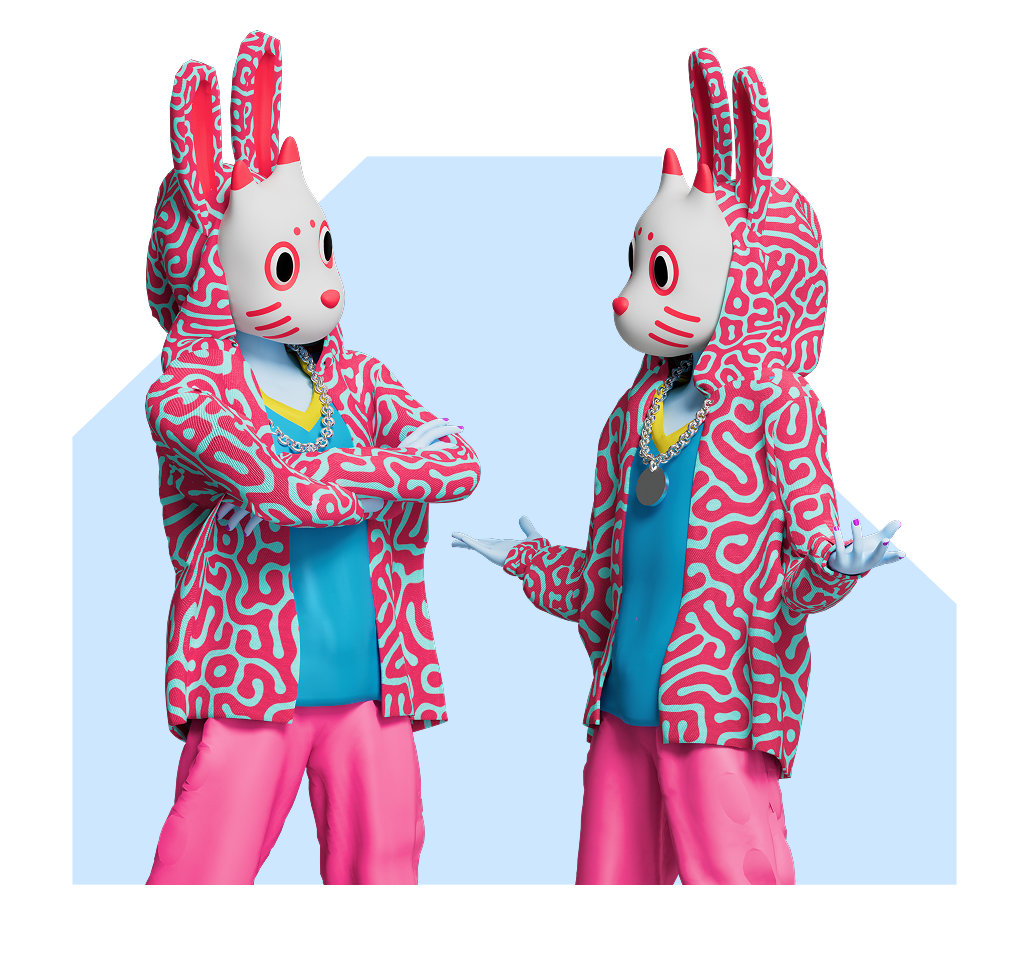
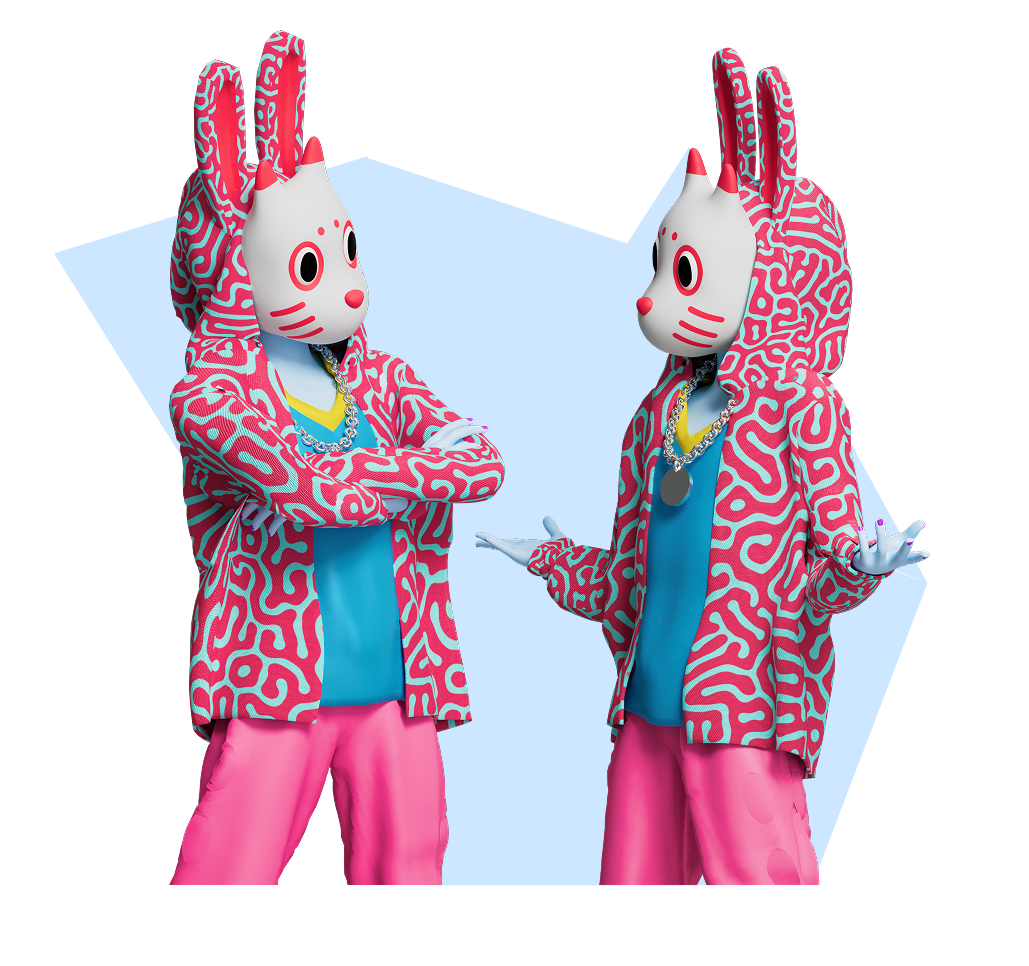
chore: update deeplink modal text copies (#16476)
<!--
Please submit this PR as a draft initially.
Do not mark it as "Ready for review" until the template has been
completely filled out, and PR status checks have passed at least once.
-->

## **Description**
Update the text copies for the public, private, and invalid deeplink
modal.

## **Related issues**

Fixes: to update text copies on deeplinking modal ([Slack
thread](https://consensys.slack.com/archives/C084W4VFHCK/p1750251190312749)).

## **Manual testing steps**
Since this UI is not yet hooked up with deeplinks. We need to test
locally
1. In the file app/components/Nav/Main/Index.js. Import `import
handleDeepLinkModalDisplay from
'../../../core/DeeplinkManager/Handlers/handleDeepLinkModalDisplay';`
and add this line inside the useEffect in line 130
```
   handleDeepLinkModalDisplay({
    linkType: 'private',
    pageTitle: 'MetaMask',
    onContinueCallBack: () => alert('continue'),
  });
```
3. Private deep link modal should pop up when you start the app
6. Repeat step 1 and change linkType to 'public' and 'invalid'

## **Screenshots/Recordings**

<!-- If applicable, add screenshots and/or recordings to visualize the
before and after of your change. -->

### **Before**
![Screenshot 2025-06-18 at 12 22
01 PM](https://github.com/user-attachments/assets/87105c3f-e3c6-464e-af2a-719c10757726)

### **After**
![Screenshot 2025-06-18 at 2 37
50 PM](https://github.com/user-attachments/assets/80aa2872-2464-4ca6-8427-319006e8e508)

<!-- [screenshots/recordings] -->
[…]

diff --git a/app/components/UI/DeepLinkModal/DeepLinkModal.tsx b/app/components/UI/DeepLinkModal/DeepLinkModal.tsx
@@ -62,7 +62,7 @@ const DeepLinkModal = () => {
         description: string;
         checkboxLabel?: string;
         event: IMetaMetricsEvent;
-        eventContinue: IMetaMetricsEvent;
+        eventContinue?: IMetaMetricsEvent;
         eventDismiss: IMetaMetricsEvent;
     }> => ({
         public: {
@@ -84,7 +84,6 @@ const DeepLinkModal = () => {
             title: strings('deep_link_modal.invalid.title'),
             description: strings('deep_link_modal.invalid.description'),
             event: MetaMetricsEvents.DEEP_LINK_INVALID_MODAL_VIEWED,
-            eventContinue: MetaMetricsEvents.DEEP_LINK_INVALID_MODAL_CONTINUE_CLICKED,
             eventDismiss: MetaMetricsEvents.DEEP_LINK_INVALID_MODAL_DISMISSED,
         },
     }), [pageTitle]);
@@ -118,14 +117,17 @@ const DeepLinkModal = () => {
 
     const onContinuePressed = useCallback(() => {
         dismissModal(() => {
-            trackEvent(
-                createEventBuilder(LINK_TYPE_MAP[linkType].eventContinue)
-                    .addProperties({
-                        ...generateDeviceAnalyticsMetaData(),
-                        pageTitle: pageTitle ?? '',
-                    })
-                    .build(),
-            );
+            const eventContinue = LINK_TYPE_MAP[linkType].eventContinue;
+            if (eventContinue) {
+                trackEvent(
+                    createEventBuilder(eventContinue)
+                        .addProperties({
+                            ...generateDeviceAnalyticsMetaData(),
+                            pageTitle,
+                        })
+                        .build(),
+                );
+            }
             onContinue?.();
         });
     }, [trackEvent, createEventBuilder, linkType, onContinue, pageTitle, LINK_TYPE_MAP]);
@@ -144,7 +146,7 @@ const DeepLinkModal = () => {
     }, [isChecked, trackEvent, createEventBuilder, dispatch]);
 
     const shouldShowCheckbox = linkType === 'private';
-    const primaryButtonLabel = linkType === 'invalid' ? strings('deep_link_modal.open_metamask_anyway') : strings('deep_link_modal.continue_button');
+    const shouldShowPrimaryButton = linkType !== 'invalid';
 
     return (
         <BottomSheet isFullscreen style={styles.screen} ref={bottomSheetRef} isInteractable={false}>
@@ -172,14 +174,14 @@ const DeepLinkModal = () => {
                     onPress={onDontRemindMeAgainPressed}
                 />
             </Box>}
-            <Button
+            {shouldShowPrimaryButton && <Button
                 variant={ButtonVariants.Primary}
                 size={ButtonSize.Lg}
                 width={ButtonWidthTypes.Full}
-                label={primaryButtonLabel}
+                label={strings('deep_link_modal.continue_button')}
                 onPress={onContinuePressed}
                 style={styles.actionButtonMargin}
-            />
+            />}
         </BottomSheet >
     );
 };

diff --git a/app/components/UI/DeepLinkModal/DeepLinkModal.test.tsx b/app/components/UI/DeepLinkModal/DeepLinkModal.test.tsx
@@ -54,7 +54,7 @@ describe('DeepLinkModal', () => {
 
         const checkbox = queryByText(/Don't remind me again/i);
         const title = getByText('Proceed with caution');
-        const description = getByText('A third party outside of MetaMask directed you to this page: MetaMask. Only continue if you trust the source.');
+        const description = getByText(/You were sent here by a third party, not MetaMask. You'll open MetaMask if you continue./i);
         expect(title).toBeDefined();
         expect(description).toBeDefined();
         expect(checkbox).toBeNull();
@@ -71,7 +71,7 @@ describe('DeepLinkModal', () => {
         (useParams as jest.Mock).mockReturnValue({ ...baseParams, linkType: 'private' });
         const { getByText } = renderScreen(DeepLinkModal, { name: 'DeepLinkModal' }, { state: {} });
         const title = getByText('Redirecting you to MetaMask');
-        const description = getByText('Clicking on “Continue” will direct you to this page: MetaMask.');
+        const description = getByText(/You'll open MetaMask if you continue./i);
         const checkbox = getByText(/Don't remind me again/i);
         expect(title).toBeDefined();
         expect(description).toBeDefined();
@@ -139,10 +139,9 @@ describe('DeepLinkModal', () => {
     });
 
     it.each`
-    linkType        |continueButtonText           |eventContinue                                                    |pageTitle
-    ${'public'}     | ${'Continue'}               | ${MetaMetricsEvents.DEEP_LINK_PUBLIC_MODAL_CONTINUE_CLICKED}    | ${'MetaMask'}
-    ${'private'}    | ${'Continue'}               | ${MetaMetricsEvents.DEEP_LINK_PRIVATE_MODAL_CONTINUE_CLICKED}   | ${'MetaMask'}
-    ${'invalid'}    | ${'Open MetaMask anyway'}   | ${MetaMetricsEvents.DEEP_LINK_INVALID_MODAL_CONTINUE_CLICKED}   | ${''}
+    linkType        |continueButtonText     |eventContinue                                                    |pageTitle
+    ${'public'}     | ${'Continue'}         | ${MetaMetricsEvents.DEEP_LINK_PUBLIC_MODAL_CONTINUE_CLICKED}    | ${'MetaMask'}
+    ${'private'}    | ${'Continue'}         | ${MetaMetricsEvents.DEEP_LINK_PRIVATE_MODAL_CONTINUE_CLICKED}   | ${'MetaMask'}
   `('should track correct action event and pageTitleon continue button pressed when linkType is $linkType',
         async ({ linkType, continueButtonText, eventContinue, pageTitle }) => {
             (useParams as jest.Mock).mockReturnValue({ ...baseParams, linkType });

diff --git a/app/core/Analytics/MetaMetrics.events.ts b/app/core/Analytics/MetaMetrics.events.ts
@@ -450,7 +450,6 @@ enum EVENT_NAME {
   DEEP_LINK_INVALID_MODAL_DISMISSED = 'Deep Link Invalid Modal Dismissed',
   DEEP_LINK_PRIVATE_MODAL_CONTINUE_CLICKED = 'Deep Link Private Modal Continue Clicked',
   DEEP_LINK_PUBLIC_MODAL_CONTINUE_CLICKED = 'Deep Link Public Modal Continue Clicked',
-  DEEP_LINK_INVALID_MODAL_CONTINUE_CLICKED = 'Deep Link Invalid Modal Continue Clicked',
   DEEP_LINK_MODAL_PRIVATE_DONT_REMIND_ME_AGAIN_CHECKBOX_CHECKED = 'Deep Link Modal Private Dont Remind Me Again Checkbox Checked',
   DEEP_LINK_MODAL_PRIVATE_DONT_REMIND_ME_AGAIN_CHECKBOX_UNCHECKED = 'Deep Link Modal Private Dont Remind Me Again Checkbox Unchecked',
 }
@@ -1100,9 +1099,6 @@ const events = {
   ),
   DEEP_LINK_PUBLIC_MODAL_CONTINUE_CLICKED: generateOpt(
     EVENT_NAME.DEEP_LINK_PUBLIC_MODAL_CONTINUE_CLICKED,
-  ),
-  DEEP_LINK_INVALID_MODAL_CONTINUE_CLICKED: generateOpt(
-    EVENT_NAME.DEEP_LINK_INVALID_MODAL_CONTINUE_CLICKED,
   ),
   DEEP_LINK_MODAL_PRIVATE_DONT_REMIND_ME_AGAIN_CHECKBOX_CHECKED: generateOpt(
     EVENT_NAME.DEEP_LINK_MODAL_PRIVATE_DONT_REMIND_ME_AGAIN_CHECKBOX_CHECKED,